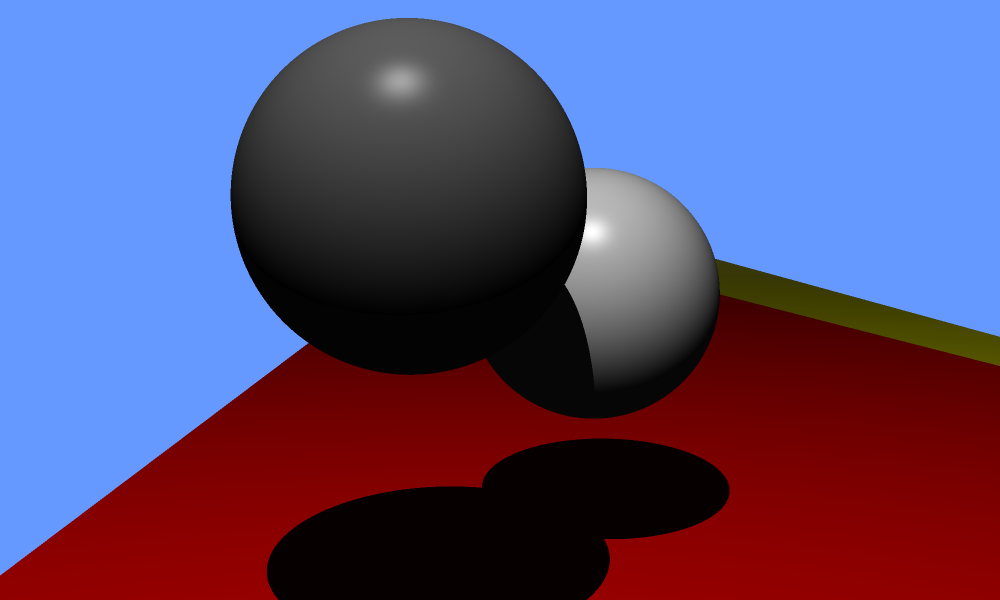
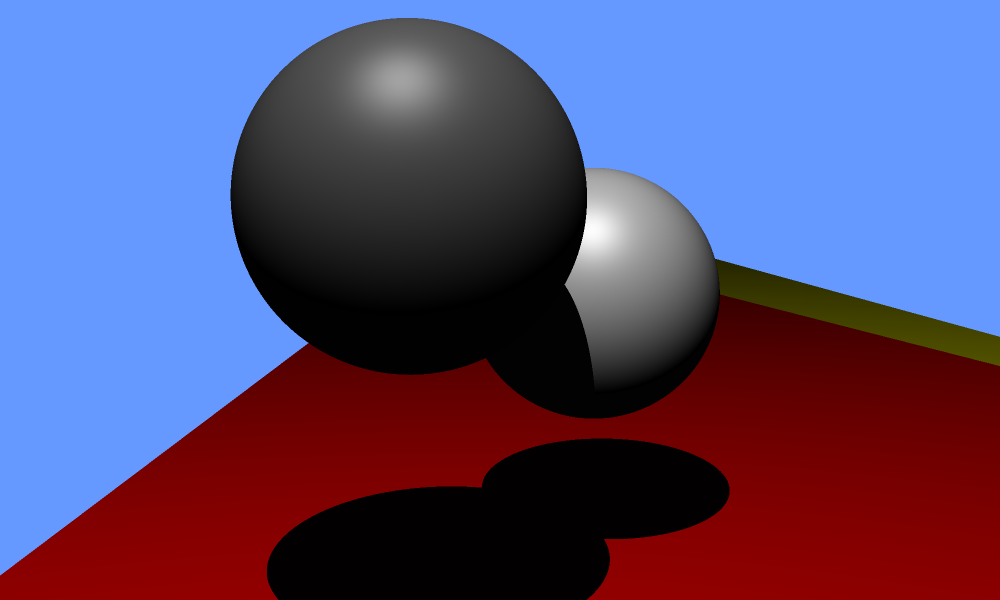
Combined all three model code into a single branch.

Changed region(s): [[0.341, 0.06, 0.465, 0.21], [0.558, 0.33, 0.62, 0.45]]

diff --git a/raytracer/src/lighting/illumination/ashikhmin_shirley.rs b/raytracer/src/lighting/illumination/ashikhmin_shirley.rs
@@ -1,0 +1,117 @@
+use std::f32::consts::PI;
+
+use glam::Vec3;
+
+use crate::{
+    geometry::intersection::Intersection, lighting::illumination::IlluminationModel, world::World,
+};
+
+pub struct AshikhminShirley {
+    nu: f32,
+    nv: f32,
+}
+
+impl AshikhminShirley {
+    pub fn new(nu: f32, nv: f32) -> Self {
+        Self { nu, nv }
+    }
+}
+
+impl IlluminationModel for AshikhminShirley {
+    fn illuminate(&mut self, world: &World, intersection: &Intersection, cam_pos: Vec3) -> Vec3 {
+        // La term which will just be average ambient of all the lights
+        let mut avg_amb = Vec3::new(0.0, 0.0, 0.0);
+        for light in world.lights.iter() {
+            avg_amb += light.ambient;
+        }
+        avg_amb /= world.lights.len() as f32;
+
+        let mat_r = intersection.material.color.x;
+        let mat_g = intersection.material.color.y;
+        let mat_b = intersection.material.color.z;
+
+        let amb_r = mat_r * avg_amb.x;
+        let amb_g = mat_g * avg_amb.y;
+        let amb_b = mat_b * avg_amb.z;
+
+        let mut radiance = Vec3::new(amb_r, amb_g, amb_b);
+
+        let mat_s_r = intersection.material.specular_color.x;
+        let mat_s_g = intersection.material.specular_color.y;
+        let mat_s_b = intersection.material.specular_color.z;
+
+        // diffuse stuff we will need
+        let diff_fact = 28.0 / (23.0 * PI);
+
+        let diff_fact_r = diff_fact * mat_r * (1.0 - mat_s_r);
+        let diff_fact_g = diff_fact * mat_g * (1.0 - mat_s_g);
+        let diff_fact_b = diff_fact * mat_b * (1.0 - mat_s_b);
+
+        let k2 = (cam_pos - intersection.intersection_point).normalize();
+
+        let mut diffuse = Vec3::new(0.0, 0.0, 0.0);
+
+        // specular stuff we will need
+        let spec_fact = ((self.nu + 1.0) * (self.nv + 1.0)).sqrt() / (8.0 * PI);
+
+        let n = intersection.normal;
+
+        let mut specular = Vec3::new(0.0, 0.0, 0.0);
+
+        for light in world.lights.iter() {
+            if !world.can_see_light(intersection, light.position) {
+                continue;
+            }
+
+            // diffuse calculations
+            let k1 = (light.position - intersection.intersection_point).normalize();
+            let light_angle = n.dot(k1);
+
+            let k1_fact = 1.0 - (1.0 - (n.dot(k1)) / 2.0).powi(5);
+            let k2_fact = 1.0 - (1.0 - (n.dot(k2)) / 2.0).powi(5);
+
+            let diff_r = diff_fact_r * k1_fact * k2_fact * light.radiance.x;
+            let diff_g = diff_fact_g * k1_fact * k2_fact * light.radiance.y;
+            let diff_b = diff_fact_b * k1_fact * k2_fact * light.radiance.z;
+
+            diffuse += Vec3::new(diff_r, diff_g, diff_b) * light_angle;
+
+            // specular calculations
+            if !(light_angle > 0.0 && n.dot(k2) > 0.0) {
+                continue;
+            }
+            let h = (k1 + k2).normalize();
+
+            let fresnel_r = mat_s_r + (1.0 - mat_s_r) * (1.0 - (k1.dot(h))).powi(5);
+            let fresnel_g = mat_s_g + (1.0 - mat_s_g) * (1.0 - (k1.dot(h))).powi(5);
+            let fresnel_b = mat_s_b + (1.0 - mat_s_b) * (1.0 - (k1.dot(h))).powi(5);
+
+            let arb = if n.x.abs() > 0.9 {
+                Vec3::new(1.0, 0.0, 0.0)
+            } else {
+                Vec3::new(0.0, 1.0, 0.0)
+            };
+
+            let u = arb.cross(n).normalize();
+            let v = n.cross(u);
+
+            let exp = (self.nu * (h.dot(u)).powi(2) + self.nv * (h.dot(v).powi(2)))
+                / (1.0 - h.dot(n).powi(2));
+            let num = (n.dot(h)).powf(exp);
+            let den = h.dot(k1) * n.dot(k1).max(n.dot(k2));
+
+            let spec_most = spec_fact * num / den;
+
+            let spec_r = spec_most * fresnel_r * light.radiance.x;
+            let spec_g = spec_most * fresnel_g * light.radiance.y;
+            let spec_b = spec_most * fresnel_b * light.radiance.z;
+
+            specular += Vec3::new(spec_r, spec_g, spec_b) * light_angle;
+        }
+
+        radiance += diffuse;
+        radiance += specular;
+
+        radiance
+    }
+}

diff --git a/raytracer/src/lighting/illumination/phong_blinn.rs b/raytracer/src/lighting/illumination/phong_blinn.rs
@@ -1,0 +1,92 @@
+use glam::Vec3;
+
+use crate::{
+    geometry::intersection::Intersection, lighting::illumination::IlluminationModel, world::World,
+};
+
+pub struct PhongBlinn {
+    ka: f32,
+    kd: f32,
+    ks: f32,
+    ke: f32,
+}
+
+impl PhongBlinn {
+    pub fn new(ka: f32, kd: f32, ks: f32, ke: f32) -> Self {
+        Self { ka, kd, ks, ke }
+    }
+}
+
+impl IlluminationModel for PhongBlinn {
+    fn illuminate(&mut self, world: &World, intersection: &Intersection, cam_pos: Vec3) -> Vec3 {
+        let mat_r = intersection.material.color.x;
+        let mat_g = intersection.material.color.y;
+        let mat_b = intersection.material.color.z;
+
+        // La term which will just be average ambient of all the lights
+        let mut avg_amb = Vec3::new(0.0, 0.0, 0.0);
+        for light in world.lights.iter() {
+            avg_amb += light.ambient;
+        }
+        avg_amb /= world.lights.len() as f32;
+
+        let amb_r = mat_r * avg_amb.x;
+        let amb_g = mat_g * avg_amb.y;
+        let amb_b = mat_b * avg_amb.z;
+
+        // default radiance is just the ambient color
+        let mut radiance = self.ka * Vec3::new(amb_r, amb_g, amb_b);
+
+        let mut total_diff_r = 0.0;
+        let mut total_diff_g = 0.0;
+        let mut total_diff_b = 0.0;
+
+        let mat_s_r = intersection.material.specular_color.x;
+        let mat_s_g = intersection.material.specular_color.y;
+        let mat_s_b = intersection.material.specular_color.z;
+
+        let mut total_spec_r = 0.0;
+        let mut total_spec_g = 0.0;
+        let mut total_spec_b = 0.0;
+
+        let view_dir = (cam_pos - intersection.intersection_point).normalize();
+
+        for light in world.lights.iter() {
+            if !world.can_see_light(intersection, light.position) {
+                continue;
+            }
+
+            // diffuse calculation
+            let s_i = (light.position - intersection.intersection_point).normalize();
+            let angle = s_i.dot(intersection.normal);
+
+            let l_r = light.radiance.x;
+            let l_g = light.radiance.y;
+            let l_b = light.radiance.z;
+
+            total_diff_r += l_r * mat_r * angle;
+            total_diff_g += l_g * mat_g * angle;
+            total_diff_b += l_b * mat_b * angle;
+
+            // specular calculation
+            let h_i = (s_i + view_dir).normalize();
+            let spec_angle = h_i.dot(intersection.normal);
+            let spec_factor = spec_angle.powf(self.ke);
+
+            total_spec_r += l_r * mat_s_r * spec_factor;
+            total_spec_g += l_g * mat_s_g * spec_factor;
+            total_spec_b += l_b * mat_s_b * spec_factor;
+        }
+
+        let mut diffuse = Vec3::new(total_diff_r, total_diff_g, total_diff_b);
+        diffuse *= self.kd;
+
+        let mut specular = Vec3::new(total_spec_r, total_spec_g, total_spec_b);
+        specular *= self.ks;
+
+        radiance += diffuse;
+        radiance += specular;
+
+        radiance
+    }
+}

diff --git a/raytracer/src/world/camera.rs b/raytracer/src/world/camera.rs
@@ -3,7 +3,10 @@ use image::{ImageBuffer, RgbImage};
 
 use crate::{
     lighting::{
-        illumination::{IlluminationModel, IlluminationType, phong::Phong},
+        illumination::{
+            IlluminationModel, IlluminationType, ashikhmin_shirley::AshikhminShirley, phong::Phong,
+            phong_blinn::PhongBlinn,
+        },
         ray::Ray,
     },
     world::World,
@@ -72,8 +75,10 @@ impl Camera {
 
         let mut rendered: RgbImage = ImageBuffer::new(self.image_width, self.image_height);
 
-        let mut ill_model = match illumination_type {
-            IlluminationType::Phong => Phong::new(0.1, 0.7, 0.3, 32.0),
+        let mut ill_model: Box<dyn IlluminationModel> = match illumination_type {
+            IlluminationType::Phong => Box::new(Phong::new(0.1, 0.7, 0.3, 32.0)),
+            IlluminationType::PhongBlinn => Box::new(PhongBlinn::new(0.1, 0.7, 0.3, 32.0)),
+            IlluminationType::AshikhminShirley => Box::new(AshikhminShirley::new(100.0, 100.0)),
         };
 
         // look at all our rays for intersections

diff --git a/raytracer/src/main.rs b/raytracer/src/main.rs
@@ -49,7 +49,7 @@ fn main() {
     world.objects_to_view_space(camera.get_view_transform());
     world.lights_to_view_space(camera.get_view_transform());
 
-    camera.render(&world, IlluminationType::Phong);
+    camera.render(&world, IlluminationType::PhongBlinn);
 }
 
 fn create_camera() -> Camera {
@@ -76,7 +76,7 @@ fn create_lights() -> Vec<LightSource> {
 
     let main_light_pos = Vec3::new(-1.0, 20.0, 10.0);
     let main_light_radiance = Vec3::new(1.0, 1.0, 1.0);
-    let main_light_ambient = Vec3::new(0.25, 0.25, 0.25);
+    let main_light_ambient = Vec3::new(0.1, 0.1, 0.1);
 
     lights.push(LightSource::new(
         main_light_pos,

diff --git a/raytracer/src/lighting/illumination/mod.rs b/raytracer/src/lighting/illumination/mod.rs
@@ -2,10 +2,14 @@ use glam::Vec3;
 
 use crate::{geometry::intersection::Intersection, world::World};
 
+pub mod ashikhmin_shirley;
 pub mod phong;
+pub mod phong_blinn;
 
 pub enum IlluminationType {
     Phong,
+    PhongBlinn,
+    AshikhminShirley,
 }
 
 pub trait IlluminationModel {
